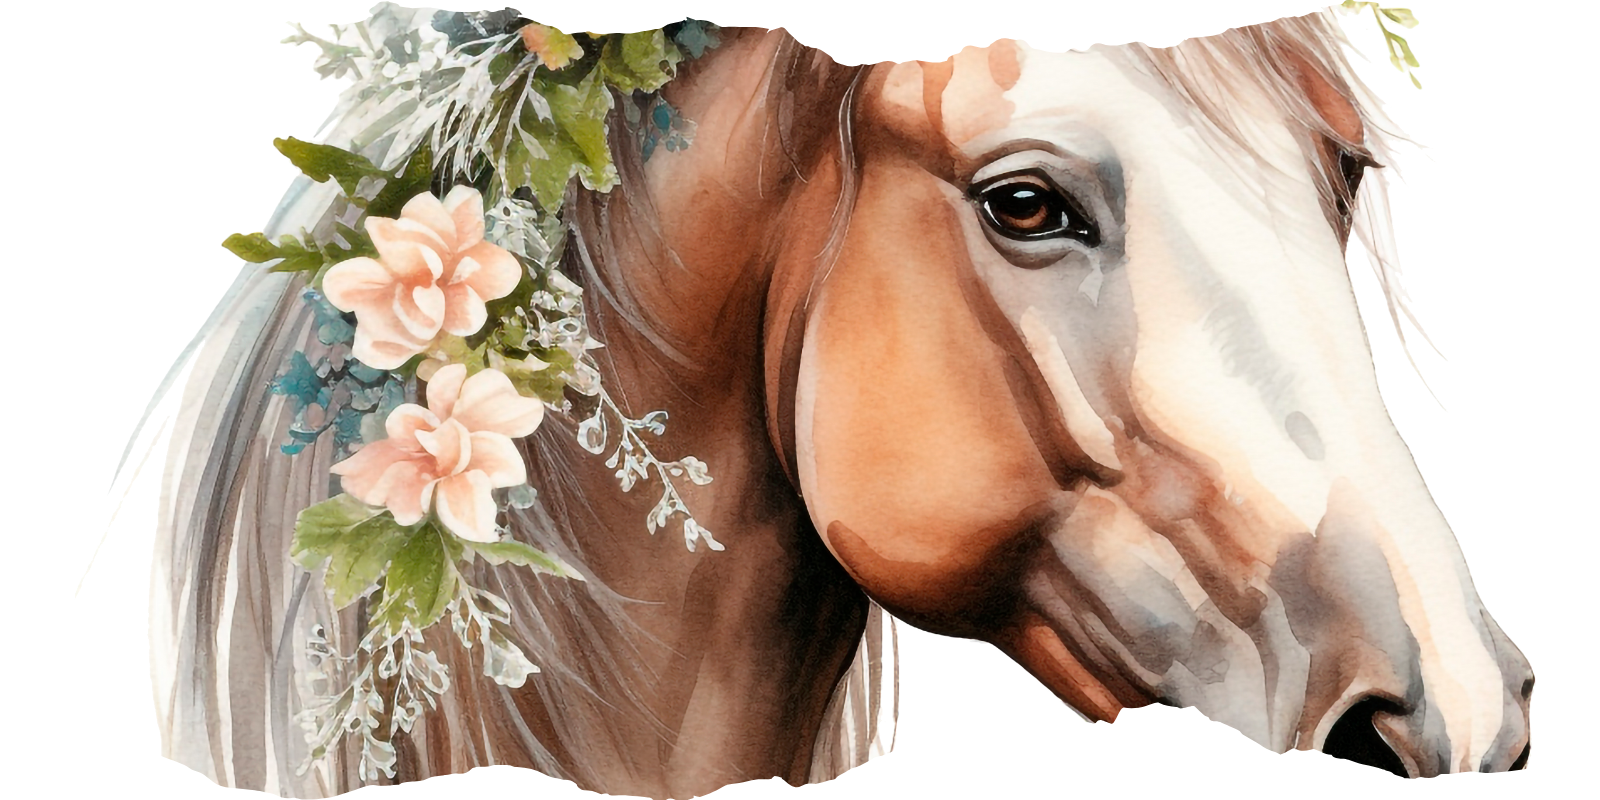
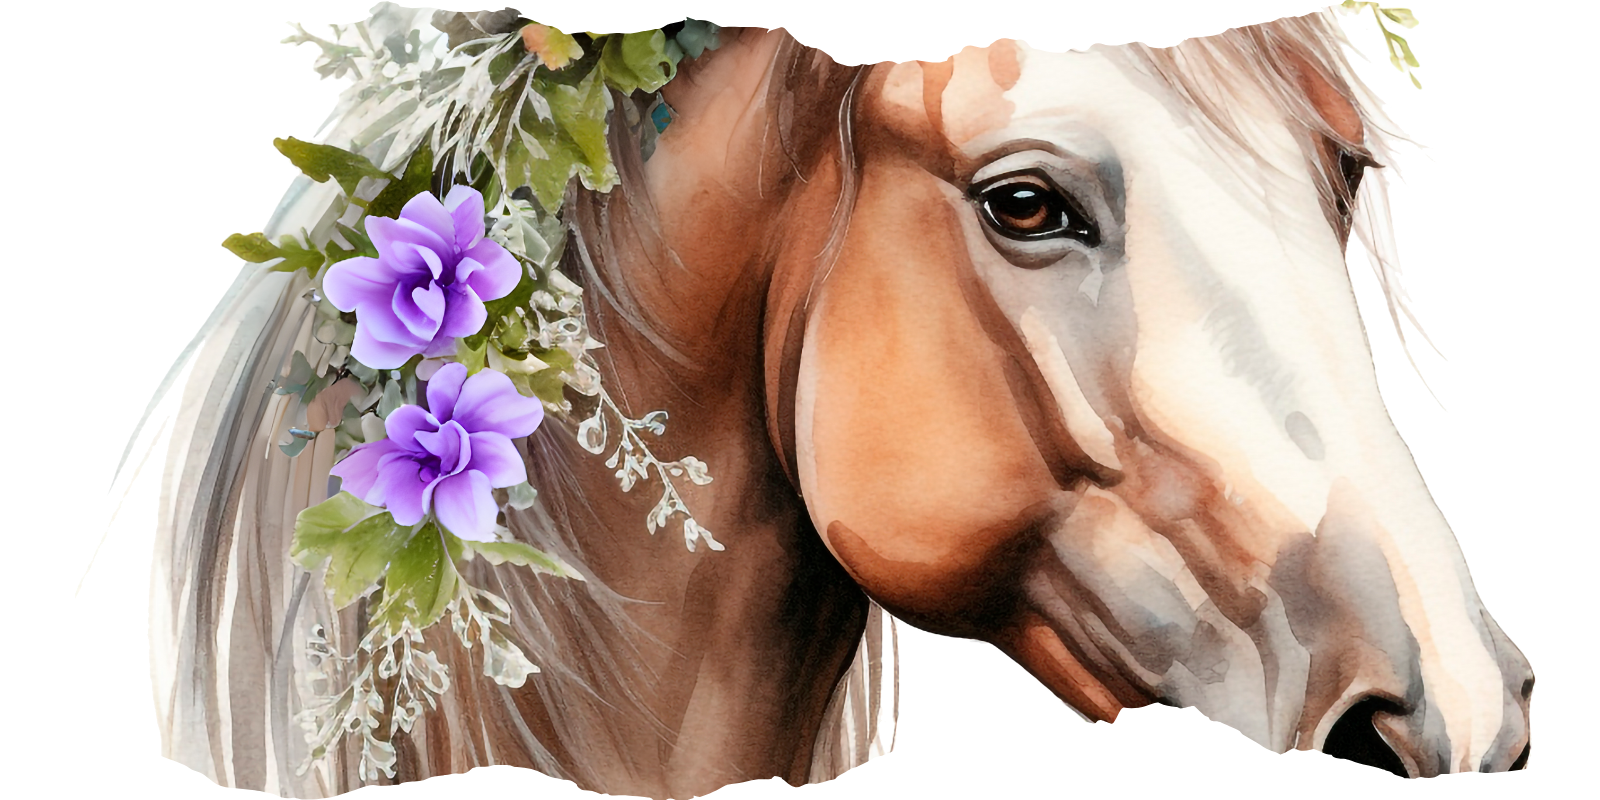
cambios - lila

Changed region(s): [[0.1562, 0.1875, 0.375, 0.7188], [0.375, 0.0312, 0.4375, 0.1875], [0.25, 0.0, 0.3438, 0.0938]]

diff --git a/index.html b/index.html
@@ -35,7 +35,7 @@
         </header>
         <!-- Sección de Foto -->
         <div class="section-main fade-in-element">
-            <img src="/imagenes/v5.jpeg" alt="Foto de la quinceañera" width="100%">
+            <img src="/imagenes/01 Sesión XV Años Samantha.jpg" alt="Foto de la quinceañera" width="100%">
         </div>
         <!--div cerezo-->
         <div class="section-cerezo0"></div> 
@@ -80,9 +80,9 @@
          <!-- Bendición de Padres -->
          <div class="section-b fade-in-element">
             <p>Con la bendición de Dios y de mis padres</p>
-            <h1>Heidi Garcia</h1>
-            <h2>&</h2>
             <h1>Manuel Jerez</h1>
+            <h2>&</h2>
+            <h1>Heidi Garcia</h1>
         </div>        
                 <!-- Nombre de Invitados y Cantidad de Pases -->
                 <div class="section fade-in-element">
@@ -92,7 +92,7 @@
                 </div>
          <!--imagen-->
          <div class="section fade-in-element">
-            <img src="/imagenes/v3.jpeg" alt="Foto de la quinceañera" width="100%" loading="lazy">
+            <img src="/imagenes/Sesión XV Años Samantha-37.jpg" alt="Foto de la quinceañera" width="100%" loading="lazy">
         </div>
         <!-- Itinerario -->
         <div class="section fade-in-element">
@@ -103,18 +103,18 @@
                  trigger="loop"
                  delay="2000"
                  stroke="light"
-                 colors="primary:#D2B48C,secondary:#F4A460"
+                 colors="primary:#7f78a9,secondary:#D2B48C"
                  style="width:200px;height:200px">
                </lord-icon>
                <h2>Ceremonia</h2>
-               <p>Eventos la Arboleda</p>
+               <p>Parroquía Corpus Christi</p>
                <div class="details">
                    <div class="time-location">
                      <span class="date"> 27 Septiembre</span>
                      <span class="separator">|</span>
-                     <span class="time">17:00 hrs</span>
+                     <span class="time">11:00 hrs</span>
                   </div>
-                     <p>Km 17.8 Antigua carretera a El Salvador, Guatemala</p>
+                     <p>8a Calle, 14-09, Zona 6, Ciudad de Guatemala</p>
                      <button type="button" class="direction-button" onclick="elegirAplicacion()">Cómo llegar</button>
                </div>
             </div>
@@ -125,7 +125,7 @@
              trigger="loop"
              delay="2000"
              stroke="light"
-             colors="primary:#D2B48C,secondary:#F4A460"
+             colors="primary:#7f78a9,secondary:#D2B48C"
              style="width:200px;height:200px">
             </lord-icon>
            <h2>Fiesta</h2>
@@ -146,7 +146,7 @@
                 <!-- Sección Mi historita -->
                 <div class="section fade-in-element">
                     <h2>Mi Historia</h2>
-                    <p>Esta hermosa bebé del cielo fue enviada para ser feliz y muy amada!</p>
+                    <p>¡Esta hermosa bebé del cielo fue enviada para ser feliz y muy amada!</p>
                     <p>Mayo 2010</p>
                     <img src="/imagenes/bebe.jpg" alt="Foto de la bebé" width="100%" loading="lazy" style="margin-top: 15px;">
                 </div>
@@ -157,11 +157,11 @@
              trigger="loop"
              delay="2000"
              stroke="light"
-             colors="primary:#D2B48C,secondary:#F4A460"
+             colors="primary:#7f78a9,secondary:#D2B48C"
              style="width:200px;height:200px">
             </lord-icon>
             <h2>Lluvia de Sobres</h2>
-            <p>Para mí lo más importante es tu presencia, pero si algo me quieres obsequiar, con dinero lo sabré aprecia</p>
+            <p>Para mí lo más importante es tu presencia, pero si algo me quieres obsequiar, con dinero lo sabré apreciar.</p>
             <p>¡Gracias!</p>
         </div>
          <!-- Playlist -->
@@ -172,7 +172,7 @@
                  trigger="loop"
                  delay="2000"
                  stroke="light"
-                 colors="primary:#D2B48C,secondary:#F4A460"
+                 colors="primary:#7f78a9,secondary:#D2B48C"
                  style="width:200px;height:200px">
              </lord-icon>
             <p>Nos encantaría que nos sugieras esas canciones que sabes que son geniales y no pueden faltar.</p>
@@ -180,7 +180,7 @@
         </div>
          <!--imagen-->
          <div class="section fade-in-element">
-            <img src="/imagenes/v2.jpeg" alt="Foto de la quinceañera" width="100%" loading="lazy">
+            <img src="/imagenes/03 Sesión XV Años Samantha.jpg" alt="Foto de la quinceañera" width="100%" loading="lazy">
         </div>
          <!--dresscode-->
          <div class="section fade-in-element">
@@ -190,10 +190,10 @@
             trigger="loop"
             delay="2000"
             stroke="light"
-            colors="primary:#D2B48C,secondary:#F4A460"
+            colors="primary:#7f78a9,secondary:#D2B48C"
             style="width:200px;height:200px">
         </lord-icon>
-            <p>Formal y elegante, no olvides abrigarte bien.</p>
+            <p>Traje de gala, no olvides abrigarte bien. Los colores morado y lila, queda reservados exclusivamente para la quinceañera.</p>
         </div>
         <!--div cerezo-->
         <div class="section-cerezo2"></div>   
@@ -201,10 +201,10 @@
        <div class="section fade-in-element">
            <h2>Galería</h2>
            <div class="galeria">
-             <img src="/imagenes/v3.jpeg" alt="Foto 1" class="galeria-imagen" onclick="changePhoto(this)" loading="lazy">
-             <img src="/imagenes/h1.jpeg" alt="Foto 2" class="galeria-imagen" onclick="changePhoto(this)" loading="lazy">
-             <img src="/imagenes/h2.jpeg" alt="Foto 3" class="galeria-imagen" onclick="changePhoto(this)" loading="lazy">
-             <img src="/imagenes/v4.jpeg" alt="Foto 4" class="galeria-imagen" onclick="changePhoto(this)" loading="lazy">
+             <img src="/imagenes/02 Sesión XV Años Samantha.jpg" alt="Foto 1" class="galeria-imagen" onclick="changePhoto(this)" loading="lazy">
+             <img src="/imagenes/foto-portada.jpg" alt="Foto 2" class="galeria-imagen" onclick="changePhoto(this)" loading="lazy">
+             <img src="/imagenes/Sesión XV Años Samantha-107.jpg" alt="Foto 3" class="galeria-imagen" onclick="changePhoto(this)" loading="lazy">
+             <img src="/imagenes/Sesión XV Años Samantha-165.jpg" alt="Foto 4" class="galeria-imagen" onclick="changePhoto(this)" loading="lazy">
            </div>
         </div>
         <!-- Modal para visualización de fotos -->
@@ -237,7 +237,7 @@
              trigger="loop"
              delay="2000"
              stroke="light"
-             colors="primary:#D2B48C,secondary:#F4A460"
+             colors="primary:#7f78a9,secondary:#D2B48C"
              style="width:200px;height:200px">
             </lord-icon>
             <h2>#MisQuinceSamantha</h2>
@@ -247,6 +247,10 @@
             <p>Escanea el código QR o usa el botón para subir tus fotos</p>
             <button onclick="window.open('https://web.dotstheapp.com/a?groupId=1941969&code=kgI9vKVs&dlBy=hello5180&utm_source=guest&utm_medium=share&utm_campaign=guest_event_album&force_app=1','_blank')">Subir fotos</button>
         </div>
+                <!-- Imagen -->
+                <div class="section fade-in-element">
+                    <img src="/imagenes/Sesión XV Años Samantha-96.jpg" alt="Foto de la quinceañera" width="100%" loading="lazy">
+                </div>
                  <!-- Confirmación -->
         <div class="section fade-in-element">
             <h3>Confirmar Asistencia</h3>
@@ -255,7 +259,7 @@
              trigger="loop"
              delay="2000"
              stroke="light"
-             colors="primary:#D2B48C,secondary:#F4A460"
+             colors="primary:#7f78a9,secondary:#D2B48C"
              style="width:200px;height:200px">
            </lord-icon>
            <p>Para nosotros es muy importante que confirmes tu asistencia antes del 05 de Septiembre, o bien indicarnos si no podrás acompañarnos.</p>
@@ -264,7 +268,7 @@
         </div>
         <!-- Imagen -->
         <div class="section fade-in-element">
-            <img src="/imagenes/v1.jpeg" alt="Foto de la quinceañera" width="100%" loading="lazy">
+            <img src="/imagenes/Sesión XV Años Samantha-58.jpg" alt="Foto de la quinceañera" width="100%" loading="lazy">
         </div>
         <!-- frase final-->
         <div class="section-quote fade-in-element">

diff --git a/script.js b/script.js
@@ -57,7 +57,27 @@ function cargarDatosInvitado() {
         const pasesEl = document.getElementById('cantidadPases');
 
         nombreEl.innerText = `¡${invitado.nombre}!`;
-        pasesEl.innerText = `¡Invitación válida para ${invitado.pases}!`;
+
+        const adultos = invitado.adultos || 0;
+        const ninos = invitado.ninos || 0;
+
+    let mensaje = '¡Invitación válida para ';
+
+    if (adultos > 0) {
+        mensaje += `${adultos} adulto${adultos > 1 ? 's' : ''}`;
+        }
+
+    if (adultos > 0 && ninos > 0) {
+    mensaje += ' y ';
+    }
+
+    if (ninos > 0) {
+    mensaje += `${ninos} niño${ninos > 1 ? 's' : ''}`;
+    }  
+
+    mensaje += '!';
+
+    pasesEl.innerText = mensaje;
 
         // Agregar clase para estilos de fondo
         nombreEl.classList.add('fondo-nombre');
@@ -137,8 +157,8 @@ function confirmarAsistencia() {
     const invitado = "Ana Pérez"; 
     const pases = 3; 
 
-    const mensaje = `Hola, soy ${invitado} y confirmo mi asistencia con ${pases} pases para los quince de Samantha. ¡Gracias por la invitacion! 🎉`;
-    const numeroTelefono = '50254678462';
+    const mensaje = `Hola, soy ${invitado} y confirmo mi asistencia con ${pases} pases para los quince de Samantha. ¡Gracias por la invitacion!`;
+    const numeroTelefono = '50257349677';
 
     const enlaceWhatsapp = `https://api.whatsapp.com/send?phone=${numeroTelefono}&text=${encodeURIComponent(mensaje)}`;
     window.open(enlaceWhatsapp, '_blank');
@@ -146,8 +166,8 @@ function confirmarAsistencia() {
 
 // Función para abrir Waze o Google Maps
 function elegirAplicacion() {
-    const enlaceGoogleMaps = 'https://maps.app.goo.gl/6KAojytokogfTN827'; // reemplaza por la dirección correcta
-    const enlaceWaze = 'https://waze.com/ul/h9fxdtmyzr';
+    const enlaceGoogleMaps = 'https://maps.app.goo.gl/Bp7AQmDEtjdAZhDE9'; // reemplaza por la dirección correcta
+    const enlaceWaze = 'https://ul.waze.com/ul?venue_id=176619667.1766196666.469363&overview=yes&utm_campaign=default&utm_source=waze_website&utm_medium=lm_share_location';
 
     window.open(enlaceGoogleMaps, '_blank');
     setTimeout(() => {

diff --git a/style.css b/style.css
@@ -1,6 +1,8 @@
 :root {
-    --color-1:rgb(191, 136, 115);
-    --color-2: rgb(200 145 124);
+    --color-1: #4c447d;
+    --color-2: #7f78a9;
+    --color-5:rgb(191, 136, 115);
+    --color-6: rgb(200 145 124);
     --color-3:#003366;
     --color-4:#F5F5F5;
     --font-title:"Great Vibes", serif;
@@ -324,14 +326,14 @@ body {
     font-style: italic;
 }
 #nombreInvitado.fondo-nombre {
-    background-color:rgba(200, 145, 124, 0.483);
+    background-color:#a896c7;
     color: white;
     padding: 10px;
     margin-bottom: 0;
 }
 
 #cantidadPases.fondo-pases {
-    background-color: rgba(200, 145, 124, 0.585);
+    background-color: #8f7faa;
     color: white;
     padding: 10px;
     margin-bottom: 0;
@@ -603,7 +605,7 @@ button:hover {
 /*footer*/
 footer {
     padding: 20px;
-    background:rgb(200 145 124);
+    background:#7f78a9;
     color: white;
     font-size: var(--footer-font-size);
     width: 100%;

diff --git a/invitados.js b/invitados.js
@@ -1,6 +1,7 @@
 // invitados.js
 export const invitados = {
-    '1': { nombre: 'Ana Pérez', pases: 3 },
-    '2': { nombre: 'Luis García', pases: 2 },
-    '3': { nombre: 'María López', pases: 4 }
-};
+    '1': { nombre: 'Ana Pérez', adultos: 2, ninos: 1 },
+    '2': { nombre: 'Luis García', adultos: 2, ninos: 0 },
+    '3': { nombre: 'María López', adultos: 3, ninos: 1 }
+  };
+  
